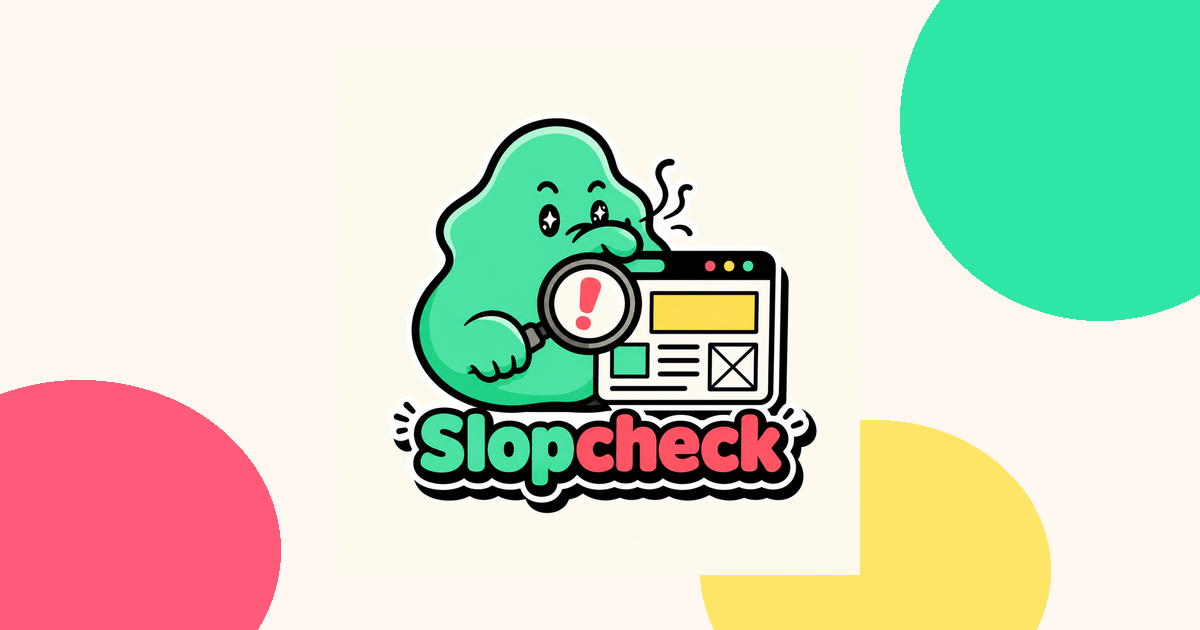
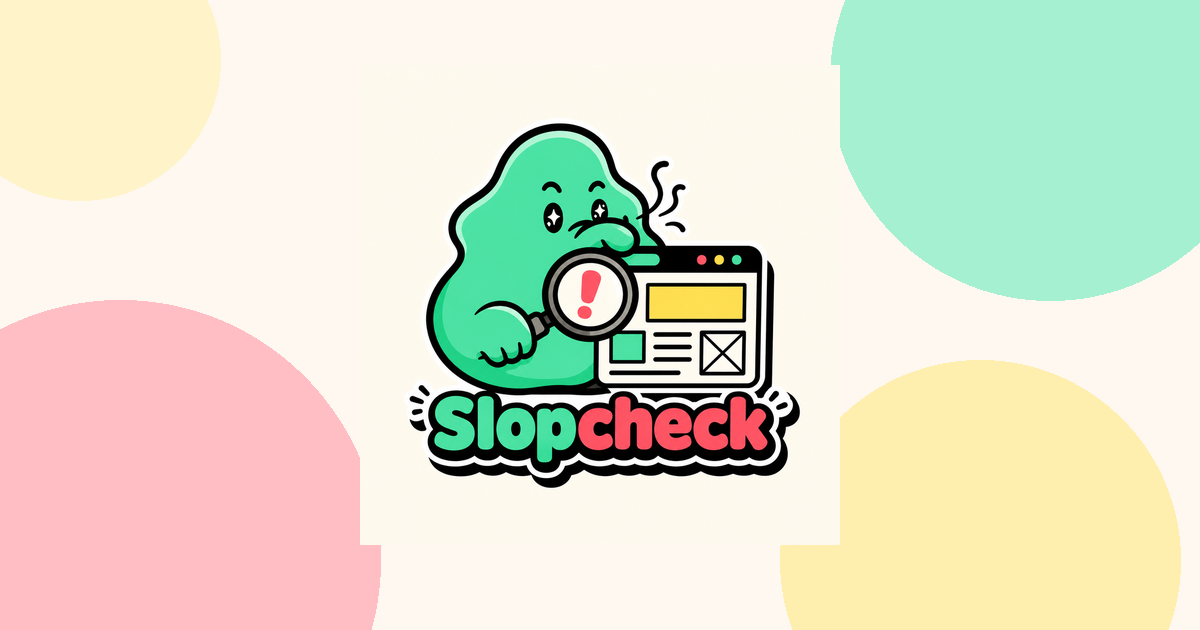
Fix X/Twitter link preview with a stable OG image URL.
Point cards at /brand/og.png, drop Next hashed image routes, and refresh the 1200×630 share art.

diff --git a/src/lib/site-metadata.ts b/src/lib/site-metadata.ts
@@ -2,6 +2,15 @@ import type { Metadata } from "next";
 
 const siteUrl = process.env.NEXT_PUBLIC_SITE_URL ?? "https://slopcheck.dev";
 
+/** Stable absolute OG asset — X/Twitter often chokes on Next's hashed image routes. */
+const shareImage = {
+  url: `${siteUrl}/brand/og.png?v=20260728`,
+  width: 1200,
+  height: 630,
+  alt: "Slopcheck — comic blob sniffing a website for AI slop",
+  type: "image/png",
+} as const;
+
 export const siteMetadata: Metadata = {
   metadataBase: new URL(siteUrl),
   title: {
@@ -34,21 +43,14 @@ export const siteMetadata: Metadata = {
     title: "Slopcheck — Is your UI AI slop?",
     description:
       "Paste a URL. We sniff AI-looking UI, score the slop, and unlock fix prompts.",
-    images: [
-      {
-        url: "/opengraph-image.png",
-        width: 1200,
-        height: 630,
-        alt: "Slopcheck — comic blob sniffing a website for AI slop",
-      },
-    ],
+    images: [shareImage],
   },
   twitter: {
     card: "summary_large_image",
     title: "Slopcheck — Is your UI AI slop?",
     description:
       "Paste a URL. We sniff AI-looking UI, score the slop, and unlock fix prompts.",
-    images: ["/twitter-image.png"],
+    images: [shareImage.url],
   },
   icons: {
     icon: [
